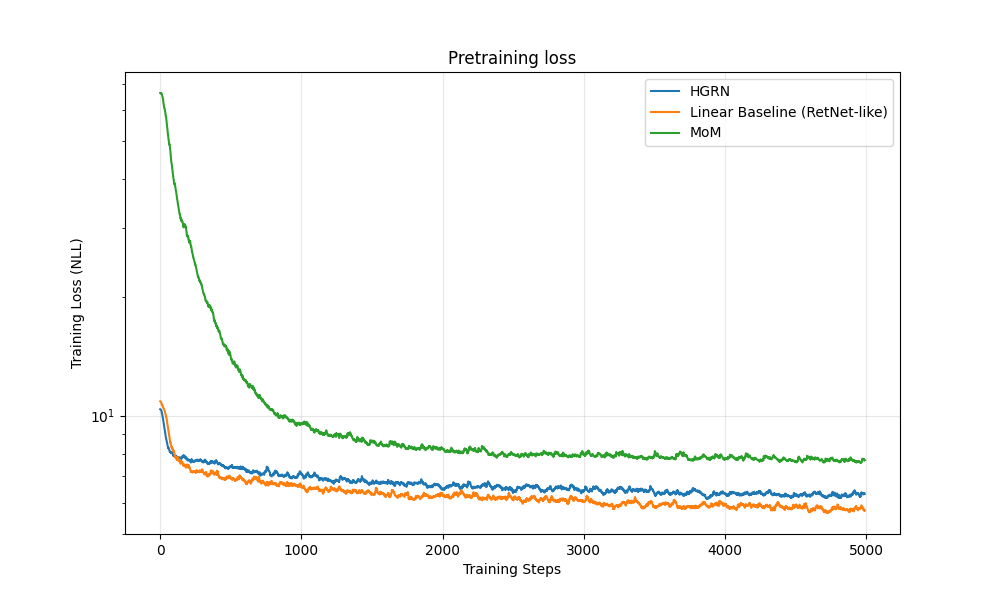
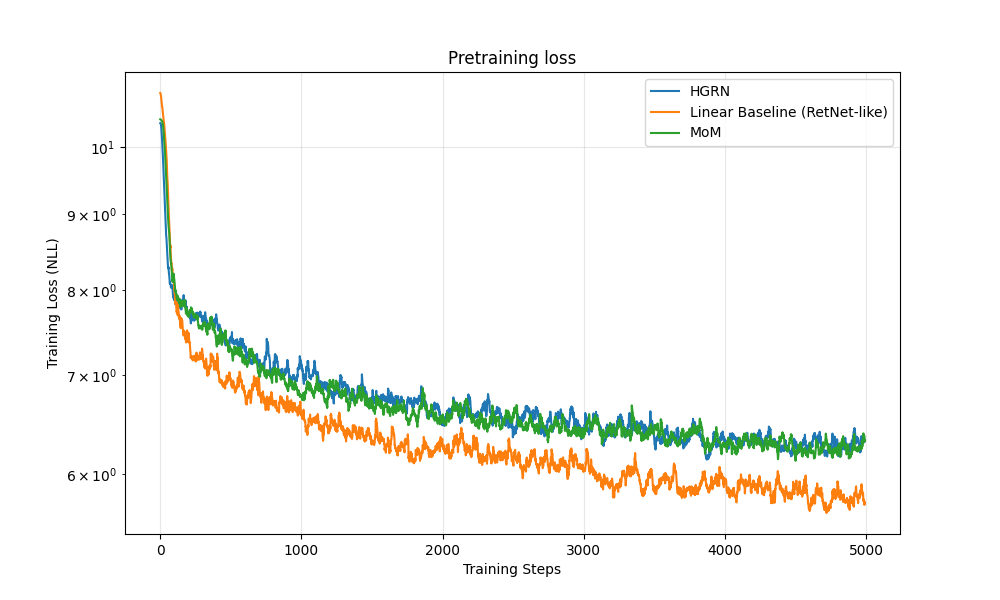
correction mom naif

diff --git a/src/experiment/train_slimpajama.py b/src/experiment/train_slimpajama.py
@@ -42,31 +42,45 @@ CONFIG = {
     "max_steps": 5000,      
     "dataset_name": "cerebras/SlimPajama-627B" 
 }
-
 class MoMLLM(nn.Module):
     def __init__(self, config):
         super().__init__()
         self.config = config 
         self.embedding = nn.Embedding(config["vocab_size"], config["dim"])
         
-        self.layers = nn.ModuleList([
-            MoM(
-                input_dim=config["dim"], 
-                hidden_dim=config["dim"], 
-                num_memories=config["num_memories"], 
-                k=config["top_k"]
-            ) for _ in range(config["num_layers"])
-        ])
+        self.layers = nn.ModuleList([])
+        
+        for _ in range(config["num_layers"]):
+            self.layers.append(
+                MoM(
+                    input_dim=config["dim"], 
+                    hidden_dim=config["dim"], 
+                    num_memories=config["num_memories"], 
+                    k=config["top_k"]
+                )
+            )
         
         self.norm = nn.LayerNorm(config["dim"])
         self.head = nn.Linear(config["dim"], config["vocab_size"], bias=False)
-        self.head.weight = self.embedding.weight
+        
+        self.apply(self._init_weights)
+
+    def _init_weights(self, module):
+        if isinstance(module, nn.Linear):
+            torch.nn.init.normal_(module.weight, mean=0.0, std=0.02)
+            if module.bias is not None:
+                torch.nn.init.zeros_(module.bias)
+        elif isinstance(module, nn.Embedding):
+            torch.nn.init.normal_(module.weight, mean=0.0, std=0.02)
+        elif isinstance(module, nn.LayerNorm):
+            torch.nn.init.zeros_(module.bias)
+            torch.nn.init.ones_(module.weight)
 
     def forward(self, input_ids):
         x = self.embedding(input_ids).transpose(0, 1)
         
         batch_size = x.shape[1]
-
+        
         M = torch.zeros(
             batch_size, 
             self.config["num_memories"] + 1, 
@@ -74,16 +88,20 @@ class MoMLLM(nn.Module):
             self.config["dim"], 
             device=x.device
         )
+        
         total_aux_loss = 0.0
 
         for layer in self.layers:
-            x, M_new, aux = layer(x, M.clone())
+            out_mom, M_new, aux = layer(x, M.clone())
+            x = x + out_mom 
+            
             total_aux_loss += aux
 
         x = x.transpose(0, 1)
         
         x = self.norm(x)
         logits = self.head(x)
+        
         return logits, total_aux_loss
 
 def get_data_loader(tokenizer, config):

diff --git a/src/module/mom.py b/src/module/mom.py
@@ -52,10 +52,13 @@ class MoM(nn.Module):
         self.input_dim = input_dim
         self.k = k
 
+        self.layer_norm = nn.LayerNorm(input_dim)
+
         self.W_k = nn.Linear(input_dim, hidden_dim * (num_memories + 1))
         self.W_v = nn.Linear(input_dim, hidden_dim * (num_memories + 1)) # On inclut la mémoire partagée
         self.W_g = nn.Linear(input_dim, num_memories) # On ne calcule pas de score pour la mémoire partagée
         self.W_q = nn.Linear(input_dim, hidden_dim)
+        self.W_o = nn.Linear(hidden_dim, hidden_dim)
 
         self.out_norm = nn.LayerNorm(hidden_dim)
 
@@ -75,6 +78,8 @@ class MoM(nn.Module):
         M_t = M_0
         outputs = []
         total_aux_loss = 0.0
+        scale = self.hidden_dim ** 0.5
+        X = self.layer_norm(X)
         for x_t in X:
             if x_t.dim() == 1:
                 x_t = x_t.unsqueeze(0)
@@ -87,10 +92,10 @@ class MoM(nn.Module):
             m_indices = m_indices + 1 # On décale de 1 car la sélection ne se fait pas sur la mémoire partagée
             m_indices_update = torch.cat([torch.zeros(batch_size, 1, device=M_t.device, dtype=torch.long), m_indices], dim=1) # On ajoute la mémoire partagée (index 0) aux indices des mémoires à mettre à jour
             m_indices_update = m_indices_update.to(device=M_t.device, dtype=torch.long)  
-            
-            g_t = m_scores / m_scores.sum(dim=1, keepdim=True) # On normalise les scores
 
-            M_k = self.W_k(x_t).reshape(batch_size, self.num_memories + 1, self.hidden_dim)
+            g_t = m_scores / (m_scores.sum(dim=1, keepdim=True) + 1e-6) # On normalise les scores
+
+            M_k = (self.W_k(x_t) * scale).reshape(batch_size, self.num_memories + 1, self.hidden_dim)
             M_v = self.W_v(x_t).reshape(batch_size, self.num_memories + 1, self.hidden_dim)
 
             M_t = self.update_module(M_t, M_k, M_v, m_indices_update)
@@ -104,8 +109,11 @@ class MoM(nn.Module):
 
             M_out = self.out_norm(M_out)
             
-            q_t = self.W_q(x_t)
+            q_t = self.W_q(x_t) * scale
             o_t = q_t.unsqueeze(-2) @ M_out
             outputs.append(o_t.squeeze(1))
 
-        return torch.stack(outputs), M_t, total_aux_loss / X.shape[0] 
+        stacked_outputs = torch.stack(outputs)
+        final_outputs = self.W_o(stacked_outputs)
+
+        return final_outputs, M_t, total_aux_loss / X.shape[0]
